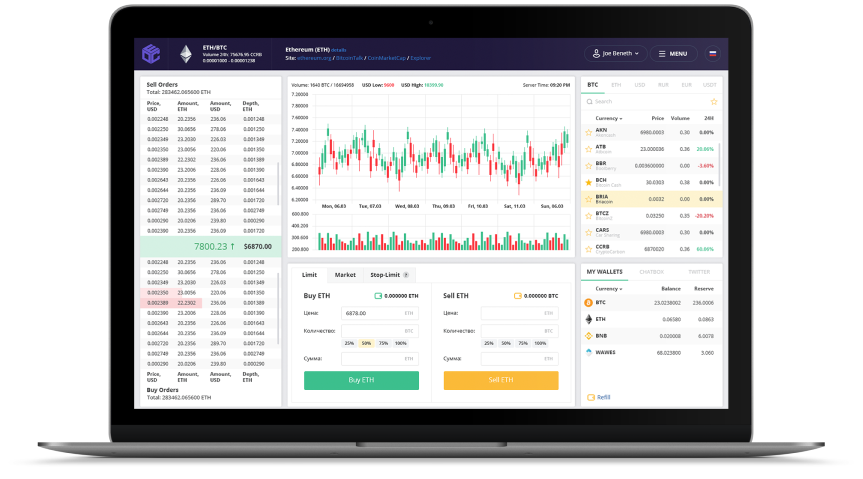
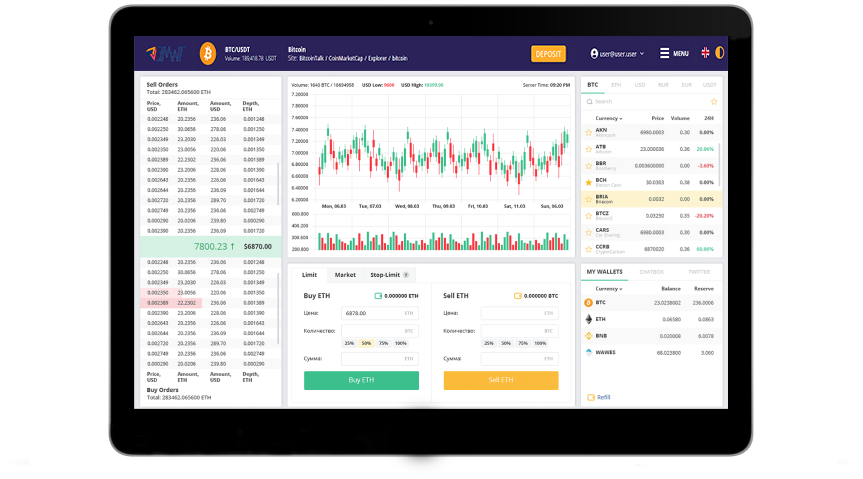
cur social link

Changed region(s): [[0.0301, 0.0585, 0.9641, 0.9937]]

diff --git a/components/Footer.vue b/components/Footer.vue
@@ -10,14 +10,6 @@
           <div class="rights !mb-2"></div>
           <div class="rights">All Rights Reserved</div>
           <div class="footer__socials-container">
-    <!--       <a
-              v-if="this.$config.axios.facebook && this.$config.axios.facebook !== ''"
-              class="footer__social-item"
-              :href="`https://facebook.com/${this.$config.axios.facebook}`"
-            >
-              <span><img width="10" src="/public/img/facebook.svg" /></span>
-              {{ this.$config.axios.facebook }}
-            </a> -->
             <a
               v-if="this.$config.axios.twitter && this.$config.axios.twitter !== ''"
               class="footer__social-item"
@@ -34,14 +26,6 @@
               <span><img width="15" src="/public/img/telegram.svg" /></span>
               {{ this.$config.axios.telegram }}
             </a>
-         <!--   <a
-              v-if="this.$config.axios.linkedin && this.$config.axios.linkedin !== ''"
-              class="footer__social-item"
-              :href="`https://linkedin.com/company/${this.$config.axios.linkedin}`"
-            >
-              <span><img width="15" src="/public/img/linkedin.svg" /></span>
-              {{ this.$config.axios.linkedin }}
-            </a> -->
           </div>
           <div class="footer-langs">
             <div class="footer-langs-btn" @click.stop="toggleLangMenu">

diff --git a/components/Header.vue b/components/Header.vue
@@ -167,7 +167,7 @@ export default {
 .navigation.navigation__open {
   position: absolute;
   top: 51px;
-  left: -80px;
+  left: -97px;
   display: block;
   width: 325%;
   background: #FFF;
@@ -227,6 +227,8 @@ export default {
 .header-btn.header-btn-signup {
   border: none;
   color: #052E6B; 
+  margin-right: 3px; /* Добавленное свойство для сдвига */
+  margin-left: -47px /* Измените это значение на тот размер, который вы хотите уменьшить отступ от Login */
 }
 .header-btn-register {
   /* Добавьте или обновите этот блок стилей для кнопки "Register" */
@@ -236,6 +238,7 @@ export default {
 .header__language {
   position: relative;
   display: flex !important;
+  margin-right: 10px; /* Добавленное свойство для увеличения расстояния */
 }
 .header__language-current {
   width: 102px;
@@ -244,7 +247,7 @@ export default {
   border-radius: 5px;
   text-align: center;
   color: #052E6B;
-  display: none; //lang menu showing
+  display: flex; //lang menu showing
   align-items: center;
   justify-content: space-between;
   padding: 0 20px;

diff --git a/components/main/Block5.vue b/components/main/Block5.vue
@@ -22,14 +22,14 @@
               <img src="/img/2.png" />
               <span>{{this.$config.axios.telegram}}</span>
             </a>
-            <a v-if="this.$config.axios.facebook" :href="`https://facebook.com/${this.$config.axios.facebook}`" class="social-fb">
+        <!--    <a v-if="this.$config.axios.facebook" :href="`https://facebook.com/${this.$config.axios.facebook}`" class="social-fb">
               <img src="/img/3.png" />
-              <span>{{this.$config.axios.facebook}}</span>
-            </a>
+              <span>{{this.$config.axios.facebook}}</span> 
+            </a> 
             <a v-if="this.$config.axios.linkedin" :href="`https://linkedin.com/company/${this.$config.axios.linkedin}`" class="social-ld">
               <img src="/img/4.png" />
               <span>{{this.$config.axios.linkedin}}</span>
-            </a>
+            </a> -->
           </div>
         </div>
       </div>

diff --git a/pages/index.vue b/pages/index.vue
@@ -30,7 +30,7 @@
       </div>
     </div>
     <Block4 />
-    <Block5 />
+    <Block5  v-if="false"/>
   </div>
 </template>
 
@@ -45,7 +45,7 @@ import Block5 from '../components/main/Block5.vue'
 
 export default {
   name: "Blog",
-  components: { CurrencyList, Block1, Block2, Block4, Block5 },
+  components: { CurrencyList, Block1, Block2, Block4}, <!-- , Block5 }, -->
   head() {
     return {
       title: `${this.$config.axios.title} ${this.$t('title')}`,

diff --git a/components/main/Block2.vue b/components/main/Block2.vue
@@ -45,7 +45,7 @@ body h2 {
 .block3-img {
   position: relative;
   top: -19px;
-  left: -51px;
+  left: -108px;
 }
 .block3-right {
   position: relative;
